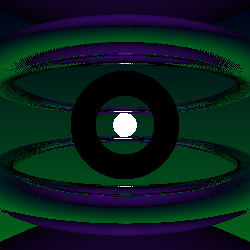
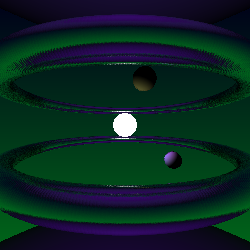
Almost donezo

diff --git a/assignment6/RayTracer.py b/assignment6/RayTracer.py
@@ -9,7 +9,7 @@ import random
 
 from multiprocessing import Pool
 
-CORES = 2
+CORES = 1
 MAX_DEPTH = 3
 TINY = 0.00000001
 FOCUS_DISTANCE = 2
@@ -336,33 +336,55 @@ def add_objects():
 	objects.append(station)
 
 
+	left_stationary = Vec3(sin(2.2) * 5, -0 + cos(2.2) * 5, -5)
+	lstation = Sphere(left_stationary, 0.7,
+						color=RGBColor(0.9, 0.9, 1.0),
+						pattern="related_abs",
+						lambert=0.7)
+	objects.append(lstation)
+
+
+
+	right_stationary = Vec3(sin(0.4) * 4.2, -0 + cos(0.4) * 4.2, -5)
+	rstation = Sphere(right_stationary, 1,
+						color=RGBColor(1.0, 1.0, 0.5))
+	objects.append(rstation)
+
+
+
 	top_giant = Vec3(0, 12000000, 0)
 	top = Sphere(top_giant, 10000000,
-					color=RGBColor(0.5, 0.1, 1))
+					color=RGBColor(0.5, 0.1, 1),
+					diffuse=0.1)
 	objects.append(top)
 
 	bottom_giant = Vec3(0, -12000000, 0)
 	bottom = Sphere(bottom_giant, 10000000,
-					color=RGBColor(0.5, 0.1, 1))
+					color=RGBColor(0.5, 0.1, 1),
+					diffuse=0.1)
 	objects.append(bottom)
+
+
+
+
 
 	# DAYUMNAMIC OBJECTS!
 	rotater_pos = None
 	rotater = None
 
 	# CENTER
-	x_pos= 0.0
-	y_pos = 0.0
-	for x in range(0, 65):
-		rotater_pos = Vec3(sin(x_pos) * 3.5, -0 + cos(y_pos) * 3.5, -5)
-		rotater = Sphere(rotater_pos, 1,
-							color=RGBColor(1.0, 1.0, 1.0),
-							lambert=0.9,
-							diffuse=0.0)
-		objects.append(rotater)
-
-		x_pos += 0.1
-		y_pos += 0.1
+	# x_pos= 0.0
+	# y_pos = 0.0
+	# for x in range(0, 65):
+	# 	rotater_pos = Vec3(sin(x_pos) * 3.5, -0 + cos(y_pos) * 3.5, -5)
+	# 	rotater = Sphere(rotater_pos, 1,
+	# 						color=RGBColor(1.0, 1.0, 1.0),
+	# 						lambert=0.9,
+	# 						diffuse=0.0)
+	# 	objects.append(rotater)
+	#
+	# 	x_pos += 0.1
+	# 	y_pos += 0.1
 
 	# BOTTOM
 	x_pos = 0.0
@@ -373,6 +395,7 @@ def add_objects():
 							color=RGBColor(1.0, 1.0, 1.0),
 							lambert=1,
 							diffuse=0.0,
+							smudge=0.1,
 							is_mirror=True)
 		objects.append(rotater)
 
@@ -388,6 +411,7 @@ def add_objects():
 							color=RGBColor(1.0, 1.0, 1.0),
 							lambert=1,
 							diffuse=0.0,
+							smudge=0.1,
 							is_mirror=True)
 		objects.append(rotater)
 

diff --git a/assignment6/TracerObjects.py b/assignment6/TracerObjects.py
@@ -66,9 +66,9 @@ class Sphere(object):
 	def colorAtPoint(self, point):
 
 		if self.pattern == "related_abs":
-			return RGBColor(self.color.r * abs(point.x),
-							self.color.g * abs(point.y),
-							self.color.b * abs(point.z))
+			return RGBColor(self.color.r * abs(point.x)/4,
+							self.color.g * abs(point.y)/4,
+							self.color.b * abs(point.z)/4)
 		elif self.pattern == "checkerboard":
 			SCALE = 0.8
 			OFFSET = 21423142
